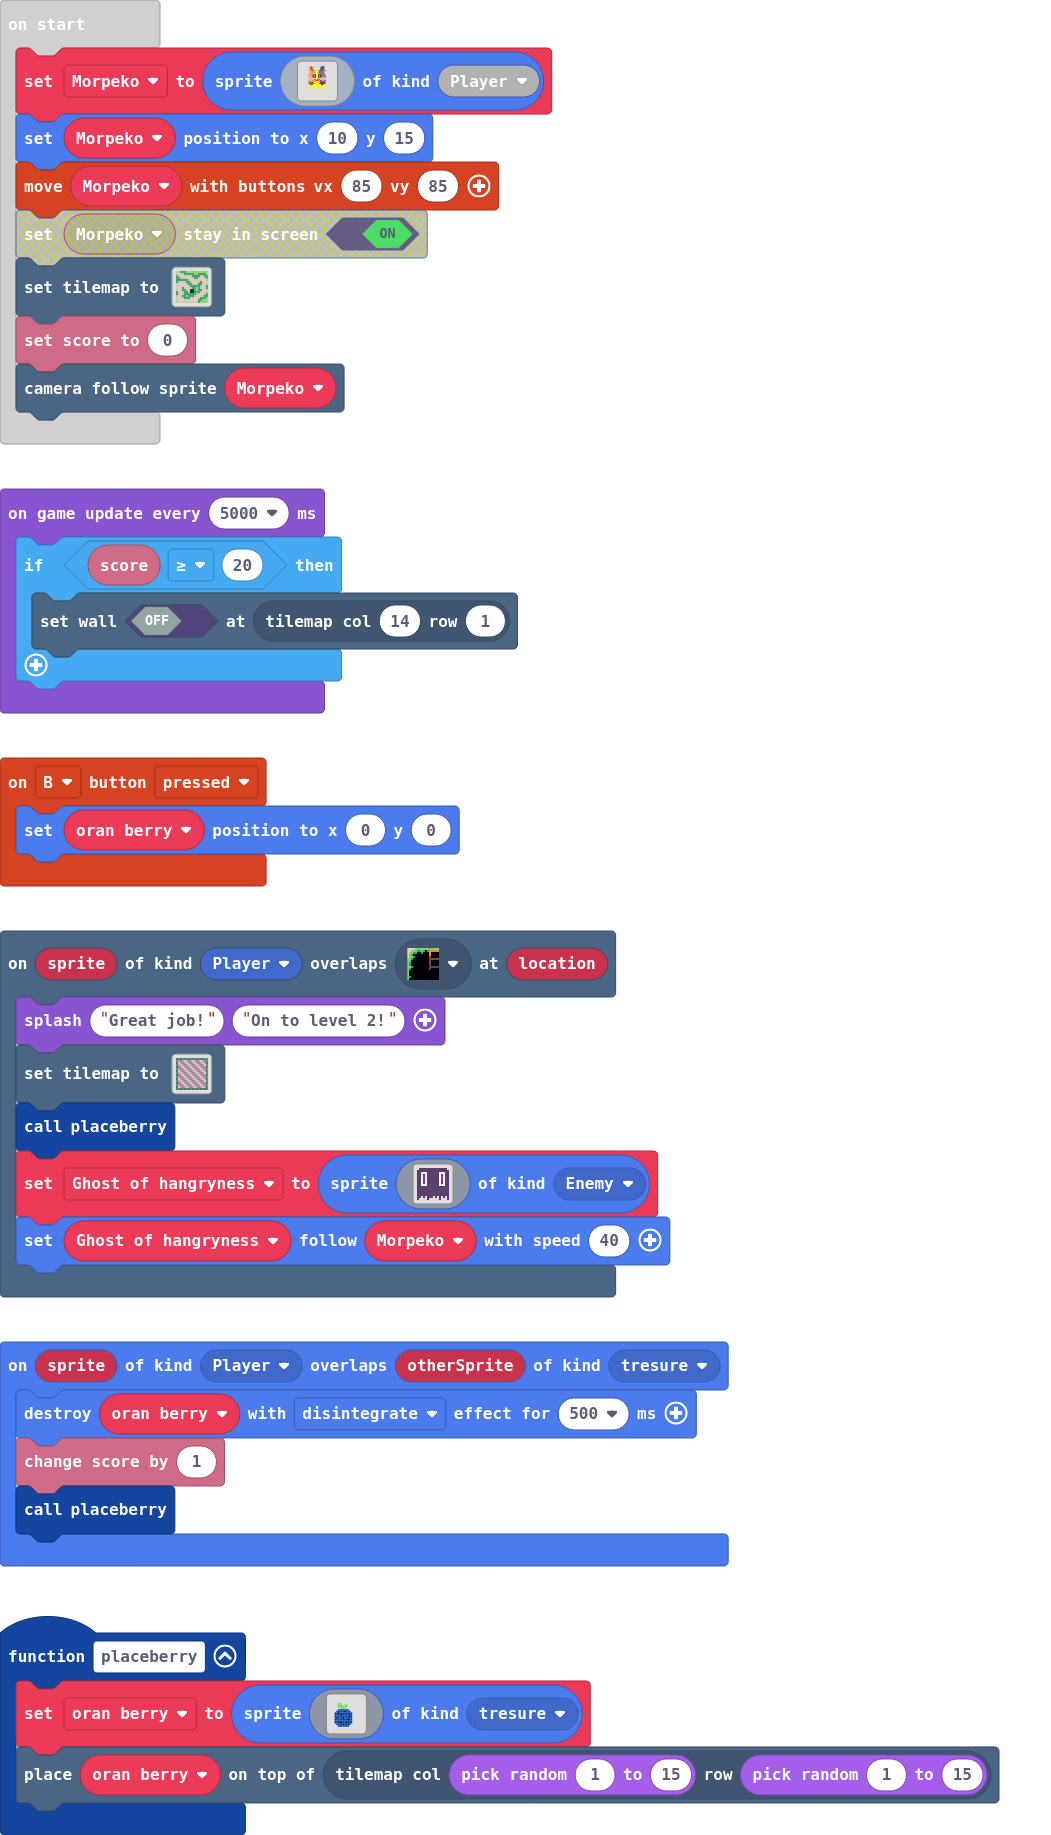
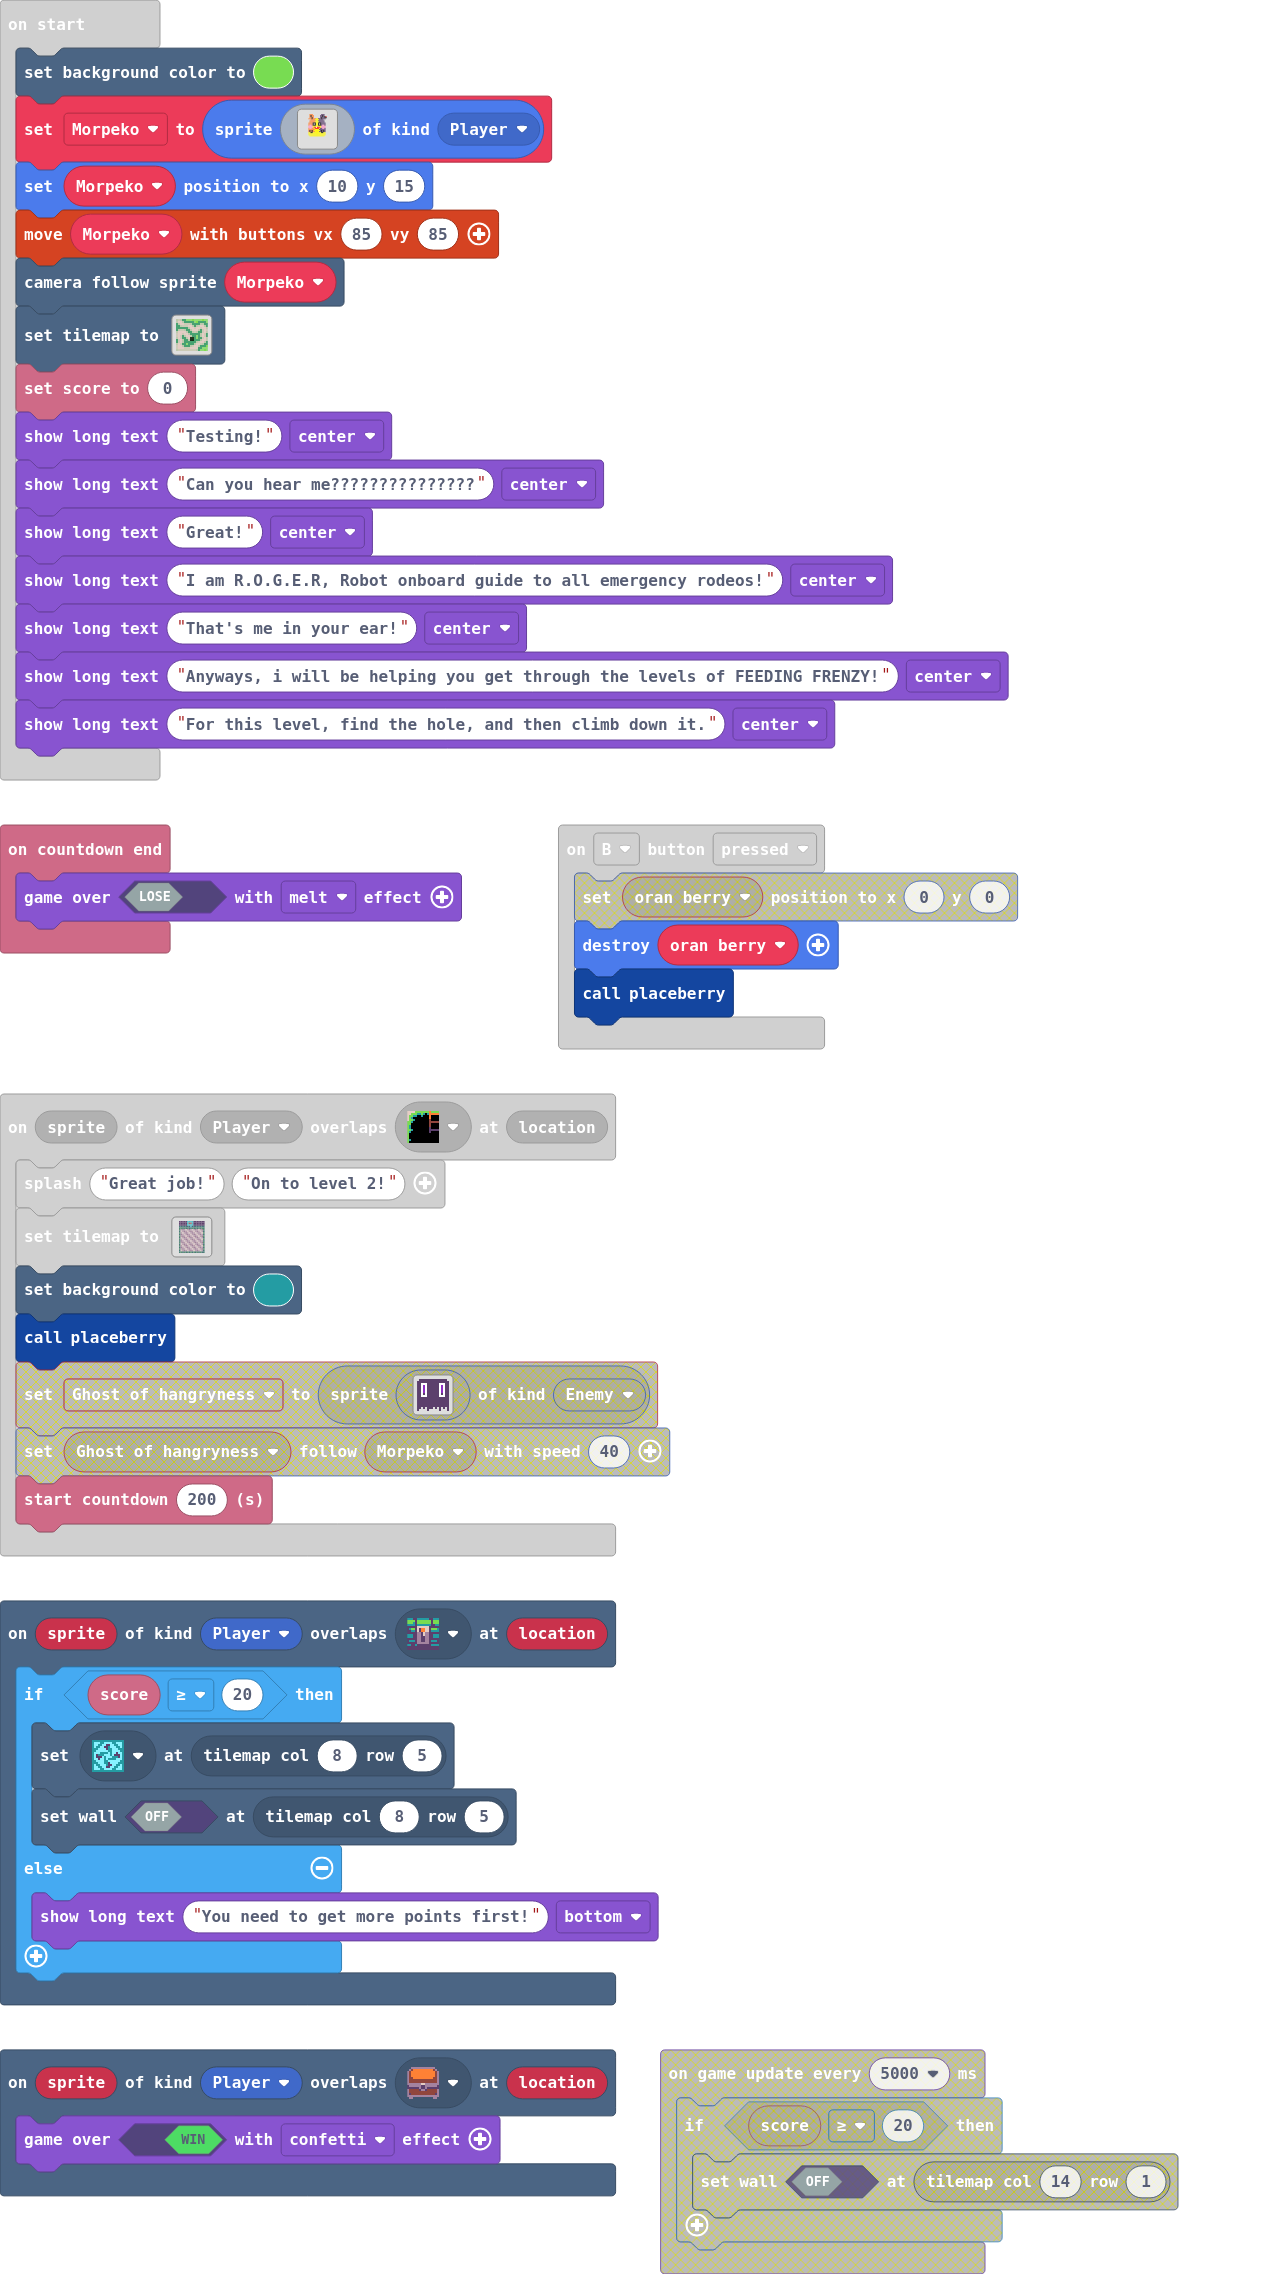
countdown, treasure

diff --git a/tilemap.g.ts b/tilemap.g.ts
@@ -15,44 +15,6 @@ namespace myTiles {
 
     helpers._registerFactory("tilemap", function(name: string) {
         switch(helpers.stringTrim(name)) {
-            case "level1":
[1 lines of base64/hex data omitted]
-. . 2 2 2 . . . . . . . . . . . 
-. . . . 2 2 2 2 2 . . 2 2 2 2 . 
-2 . . . . . . . 2 2 2 2 . . 2 2 
-2 2 . . . . . . . 2 2 . . . . 2 
-2 2 2 2 2 2 . . . . . . . . . . 
-2 . . . . 2 2 . . . . . 2 . . . 
-. . . . . . 2 2 . . . 2 2 . . . 
-. . . . . . . 2 2 2 2 2 . . . 2 
-. . . 2 . . . . 2 2 . 2 . . . 2 
-. . . 2 2 . . . . 2 . 2 2 . . . 
-2 . . . 2 2 . . . 2 2 2 . . . . 
-2 . . . 2 2 2 2 2 2 . . . . . 2 
-. . . 2 2 . 2 2 2 . . . . . 2 2 
-. . . . 2 2 2 . . . . . 2 2 2 . 
-. . . . . . . . . . . 2 2 . . . 
-. . . . . . . . . . . 2 . . . . 
-`, [myTiles.transparency16,sprites.builtin.forestTiles0,sprites.castle.tileGrass1,sprites.castle.tileGrass2,sprites.castle.tileGrass3,sprites.castle.tilePath1,sprites.castle.tilePath7,sprites.castle.tilePath3,sprites.castle.tilePath5,sprites.castle.tilePath4,sprites.castle.tilePath2,sprites.castle.tilePath9,sprites.castle.tilePath8,sprites.castle.tilePath6,myTiles.tile2,myTiles.tile5,myTiles.tile8,myTiles.tile9], TileScale.Sixteen);
-            case "level2":
[1 lines of base64/hex data omitted]
-2 2 2 2 2 2 2 2 2 2 2 2 2 2 2 2 
-2 . . . . . . . . . . . . . . 2 
-2 . . . . . . . . . . . . . . 2 
-2 . . . . . . . . . . . . . . 2 
-2 . . . . . . . . . . . . . . 2 
-2 . . . . . . . . . . . . . . 2 
-2 . . . . . . . . . . . . . . 2 
-2 . . . . . . . . . . . . . . 2 
-2 . . . . . . . . . . . . . . 2 
-2 . . . . . . . . . . . . . . 2 
-2 . . . . . . . . . . . . . . 2 
-2 . . . . . . . . . . . . . . 2 
-2 . . . . . . . . . . . . . . 2 
-2 . . . . . . . . . . . . . . 2 
-2 . . . . . . . . . . . . . . 2 
-2 2 2 2 2 2 2 2 2 2 2 2 2 2 2 2 
-`, [myTiles.transparency16,sprites.dungeon.greenOuterNorth0,sprites.dungeon.greenOuterNorthWest,sprites.dungeon.greenOuterNorthEast,sprites.dungeon.greenOuterSouthWest,sprites.dungeon.greenOuterSouthEast,sprites.dungeon.greenOuterWest0,sprites.dungeon.greenOuterSouth1,sprites.dungeon.greenOuterEast0,sprites.dungeon.greenSwitchUp,sprites.dungeon.greenOuterWest2,sprites.dungeon.greenOuterNorth2,sprites.dungeon.greenOuterEast2,sprites.dungeon.greenOuterSouth2,sprites.dungeon.floorMixed,sprites.dungeon.floorDark0,sprites.dungeon.floorLight0], TileScale.Sixteen);
             case "level3":
             case "level3":return tiles.createTilemap(hex`1000100000000000000000000000000000000000000000000000000000000000000000000000000000000000000000000000000000000000000000000000000000000000000000000000000000000000000000000000000000000000000000000000000000000000000000000000000000000000000000000000000000000000000000000000000000000000000000000000000000000000000000000000000000000000000000000000000000000000000000000000000000000000000000000000000000000000000000000000000000000000000000000000000000000000000000000000000000000000000000000000000000000000000000000000000000000000`, img`
 . . . . . . . . . . . . . . . . 
@@ -72,6 +34,67 @@ namespace myTiles {
 . . . . . . . . . . . . . . . . 
 . . . . . . . . . . . . . . . . 
 `, [myTiles.transparency16], TileScale.Sixteen);
+            case "level4":
+            case "level4":return tiles.createTilemap(hex`1000100000000000000000000000000000000000000000000000000000000000000000000000000000000000000000000000000000000000000000000000000000000000000000000000000000000000000000000000000000000000000000000000000000000000000000000000000000000000000000000000000000000000000000000000000000000000000000000000000000000000000000000000000000000000000000000000000000000000000000000000000000000000000000000000000000000000000000000000000000000000000000000000000000000000000000000000000000000000000000000000000000000000000000000000000000000000`, img`
+. . . . . . . . . . . . . . . . 
+. . . . . . . . . . . . . . . . 
+. . . . . . . . . . . . . . . . 
+. . . . . . . . . . . . . . . . 
+. . . . . . . . . . . . . . . . 
+. . . . . . . . . . . . . . . . 
+. . . . . . . . . . . . . . . . 
+. . . . . . . . . . . . . . . . 
+. . . . . . . . . . . . . . . . 
+. . . . . . . . . . . . . . . . 
+. . . . . . . . . . . . . . . . 
+. . . . . . . . . . . . . . . . 
+. . . . . . . . . . . . . . . . 
+. . . . . . . . . . . . . . . . 
+. . . . . . . . . . . . . . . . 
+. . . . . . . . . . . . . . . . 
+`, [myTiles.transparency16], TileScale.Sixteen);
+            case "level1":
[1 lines of base64/hex data omitted]
+. . . 2 2 . . . . . . . . . . . 
+. . . . 2 2 2 2 2 . . 2 2 2 2 . 
+2 . . . . . . . 2 2 2 2 . . 2 2 
+2 2 . . . . . . . 2 . . . . . 2 
+2 2 2 2 2 2 . . . . . . . . . . 
+2 . . . . 2 2 . . . . . 2 . . . 
+. . . . . . 2 2 . . . 2 2 . . . 
+. . . . . . . 2 2 2 2 2 . . . 2 
+. . . 2 . . . . 2 2 . 2 . . . 2 
+. . . 2 2 . . . . 2 . 2 2 . . . 
+2 . . . 2 2 . . . 2 2 2 . . . . 
+2 . . . 2 2 2 2 2 2 . . . . . 2 
+. . . 2 2 . 2 2 2 . . . . . 2 2 
+. . . . 2 2 2 . . . . . 2 2 2 . 
+. . . . . . . . . . . 2 2 . . . 
+. . . . . . . . . . . 2 . . . . 
+`, [myTiles.transparency16,sprites.builtin.forestTiles0,sprites.castle.tileGrass1,sprites.castle.tileGrass2,sprites.castle.tileGrass3,sprites.castle.tilePath1,sprites.castle.tilePath7,sprites.castle.tilePath3,sprites.castle.tilePath5,sprites.castle.tilePath4,sprites.castle.tilePath2,sprites.castle.tilePath9,sprites.castle.tilePath8,sprites.castle.tilePath6,myTiles.tile2,myTiles.tile5,myTiles.tile8,myTiles.tile9], TileScale.Sixteen);
+            case "level2":
[1 lines of base64/hex data omitted]
+................
+................
+................
+2222222.22222222
+2222222222222.22
+2..............2
+2..............2
+2..............2
+2..............2
+2..............2
+2..............2
+2..............2
+2..............2
+2..............2
+2..............2
+2..............2
+2..............2
+2..............2
+2..............2
+2222222222222222
+`, [myTiles.transparency16,sprites.dungeon.greenOuterNorth0,sprites.dungeon.greenOuterNorthWest,sprites.dungeon.greenOuterNorthEast,sprites.dungeon.greenOuterSouthWest,sprites.dungeon.greenOuterSouthEast,sprites.dungeon.greenOuterWest0,sprites.dungeon.greenOuterSouth1,sprites.dungeon.greenOuterEast0,sprites.dungeon.greenSwitchUp,sprites.dungeon.greenOuterWest2,sprites.dungeon.greenOuterNorth2,sprites.dungeon.greenOuterEast2,sprites.dungeon.greenOuterSouth2,sprites.dungeon.floorMixed,sprites.dungeon.floorDark0,sprites.dungeon.floorLight0,sprites.dungeon.darkGroundNorthWest0,sprites.dungeon.darkGroundNorthEast0,sprites.dungeon.darkGroundWest,sprites.dungeon.darkGroundEast,sprites.dungeon.darkGroundNorth,sprites.dungeon.darkGroundCenter,sprites.dungeon.chestClosed,sprites.dungeon.collectibleInsignia,sprites.dungeon.greenInnerNorthEast,sprites.dungeon.greenInnerNorthWest], TileScale.Sixteen);
         }
         return null;
     })

diff --git a/main.ts b/main.ts
@@ -4,34 +4,32 @@ namespace SpriteKind {
 scene.onOverlapTile(SpriteKind.Player, assets.tile`myTile0`, function (sprite, location) {
     game.splash("Great job!", "On to level 2!")
     tiles.setTilemap(tilemap`level2`)
+    scene.setBackgroundColor(6)
     placeberry()
-    Ghost_of_hangryness = sprites.create(img`
-        . c c c c c c c c c c c c c c . 
-        c c c c c c c c c c c c c c c c 
-        c c 1 1 1 c c c c c c 1 1 1 c c 
-        c c 1 a 1 c c c c c c 1 a 1 c c 
-        c c 1 a 1 c c c c c c 1 a 1 c c 
-        c c 1 a 1 c c c c c c 1 a 1 c c 
-        c c 1 a 1 c c c c c c 1 a 1 c c 
-        c c 1 c 1 c c c c c c 1 c 1 c c 
-        c c 1 1 1 c c c c c c 1 1 1 c c 
-        c c c c c c c c c c c c c c c c 
-        c c c c c c c c c c c c c c c c 
-        c c c c c c c c c c c c c c c c 
-        c c c c c c c c c c c c c c c c 
-        c c c c c c c c c c c c c c c c 
-        c c . c . c c c . c . c . c . c 
-        c . . . . c . . . . . c . . . c 
-        `, SpriteKind.Enemy)
-    Ghost_of_hangryness.follow(Morpeko, 40)
+    info.startCountdown(200)
 })
 controller.B.onEvent(ControllerButtonEvent.Pressed, function () {
-    oran_berry.setPosition(0, 0)
+    oran_berry.destroy()
+    placeberry()
+})
+scene.onOverlapTile(SpriteKind.Player, sprites.dungeon.greenSwitchUp, function (sprite, location) {
+    if (info.score() >= 20) {
+        tiles.setTileAt(tiles.getTileLocation(8, 5), sprites.dungeon.collectibleInsignia)
+        tiles.setWallAt(tiles.getTileLocation(8, 5), false)
+    } else {
+        game.showLongText("You need to get more points first!", DialogLayout.Bottom)
+    }
 })
 sprites.onOverlap(SpriteKind.Player, SpriteKind.tresure, function (sprite, otherSprite) {
     oran_berry.destroy(effects.disintegrate, 500)
     info.changeScoreBy(1)
     placeberry()
+})
+info.onCountdownEnd(function () {
+    game.over(false, effects.melt)
+})
+scene.onOverlapTile(SpriteKind.Player, sprites.dungeon.chestClosed, function (sprite, location) {
+    game.over(true, effects.confetti)
 })
 function placeberry () {
     oran_berry = sprites.create(img`
@@ -59,16 +57,17 @@ function placeberry () {
     tiles.placeOnTile(oran_berry, tiles.getTileLocation(randint(1, 15), randint(1, 15)))
 }
 let oran_berry: Sprite = null
-let Ghost_of_hangryness: Sprite = null
-let Morpeko: Sprite = null
-Morpeko = sprites.create(assets.image`Morpeko`, SpriteKind.Player)
+scene.setBackgroundColor(7)
+let Morpeko = sprites.create(assets.image`Morpeko`, SpriteKind.Player)
 Morpeko.setPosition(10, 15)
 controller.moveSprite(Morpeko, 85, 85)
 scene.cameraFollowSprite(Morpeko)
 tiles.setTilemap(tilemap`level1`)
 info.setScore(0)
-game.onUpdateInterval(5000, function () {
-    if (info.score() >= 20) {
-        tiles.setWallAt(tiles.getTileLocation(14, 1), false)
-    }
-})
+game.showLongText("Testing!", DialogLayout.Center)
+game.showLongText("Can you hear me???????????????", DialogLayout.Center)
+game.showLongText("Great!", DialogLayout.Center)
+game.showLongText("I am R.O.G.E.R, Robot onboard guide to all emergency rodeos!", DialogLayout.Center)
+game.showLongText("That's me in your ear!", DialogLayout.Center)
+game.showLongText("Anyways, i will be helping you get through the levels of FEEDING FRENZY!", DialogLayout.Center)
+game.showLongText("For this level, find the hole, and then climb down it.", DialogLayout.Center)

diff --git a/images.g.ts b/images.g.ts
@@ -7,8 +7,8 @@ namespace myImages {
             case "Morpeko":return img`
 ........444........ccc........
 ........4f44......ccfc........
-........4f44......ccfc........
-........44f4......cfcc........
+........4f44......ccfcf2......
+........44f4......cfccff......
 .......444f44455cccfccc.......
 .........44445555cccc.........
 ........44444455cccccc........
@@ -39,7 +39,25 @@ namespace myImages {
 
     helpers._registerFactory("animation", function(name: string) {
         switch(helpers.stringTrim(name)) {
-
+            case "myAnim":
+            case "anim1":return [img`
+. . . . . . . . . . . . . . . . 
+. . . . . . . . . . . . . . . . 
+. . . . . . . . . . . . . . . . 
+. . . . . . . . . . . . . . . . 
+. . . . . . . . . . . . . . . . 
+. . . . . . . . . . . . . . . . 
+. . . . . . . . . . . . . . . . 
+. . . . . . . . . . . . . . . . 
+. . . . . . . . . . . . . . . . 
+. . . . . . . . . . . . . . . . 
+. . . . . . . . . . . . . . . . 
+. . . . . . . . . . . . . . . . 
+. . . . . . . . . . . . . . . . 
+. . . . . . . . . . . . . . . . 
+. . . . . . . . . . . . . . . . 
+. . . . . . . . . . . . . . . . 
+`];
         }
         return null;
     })
